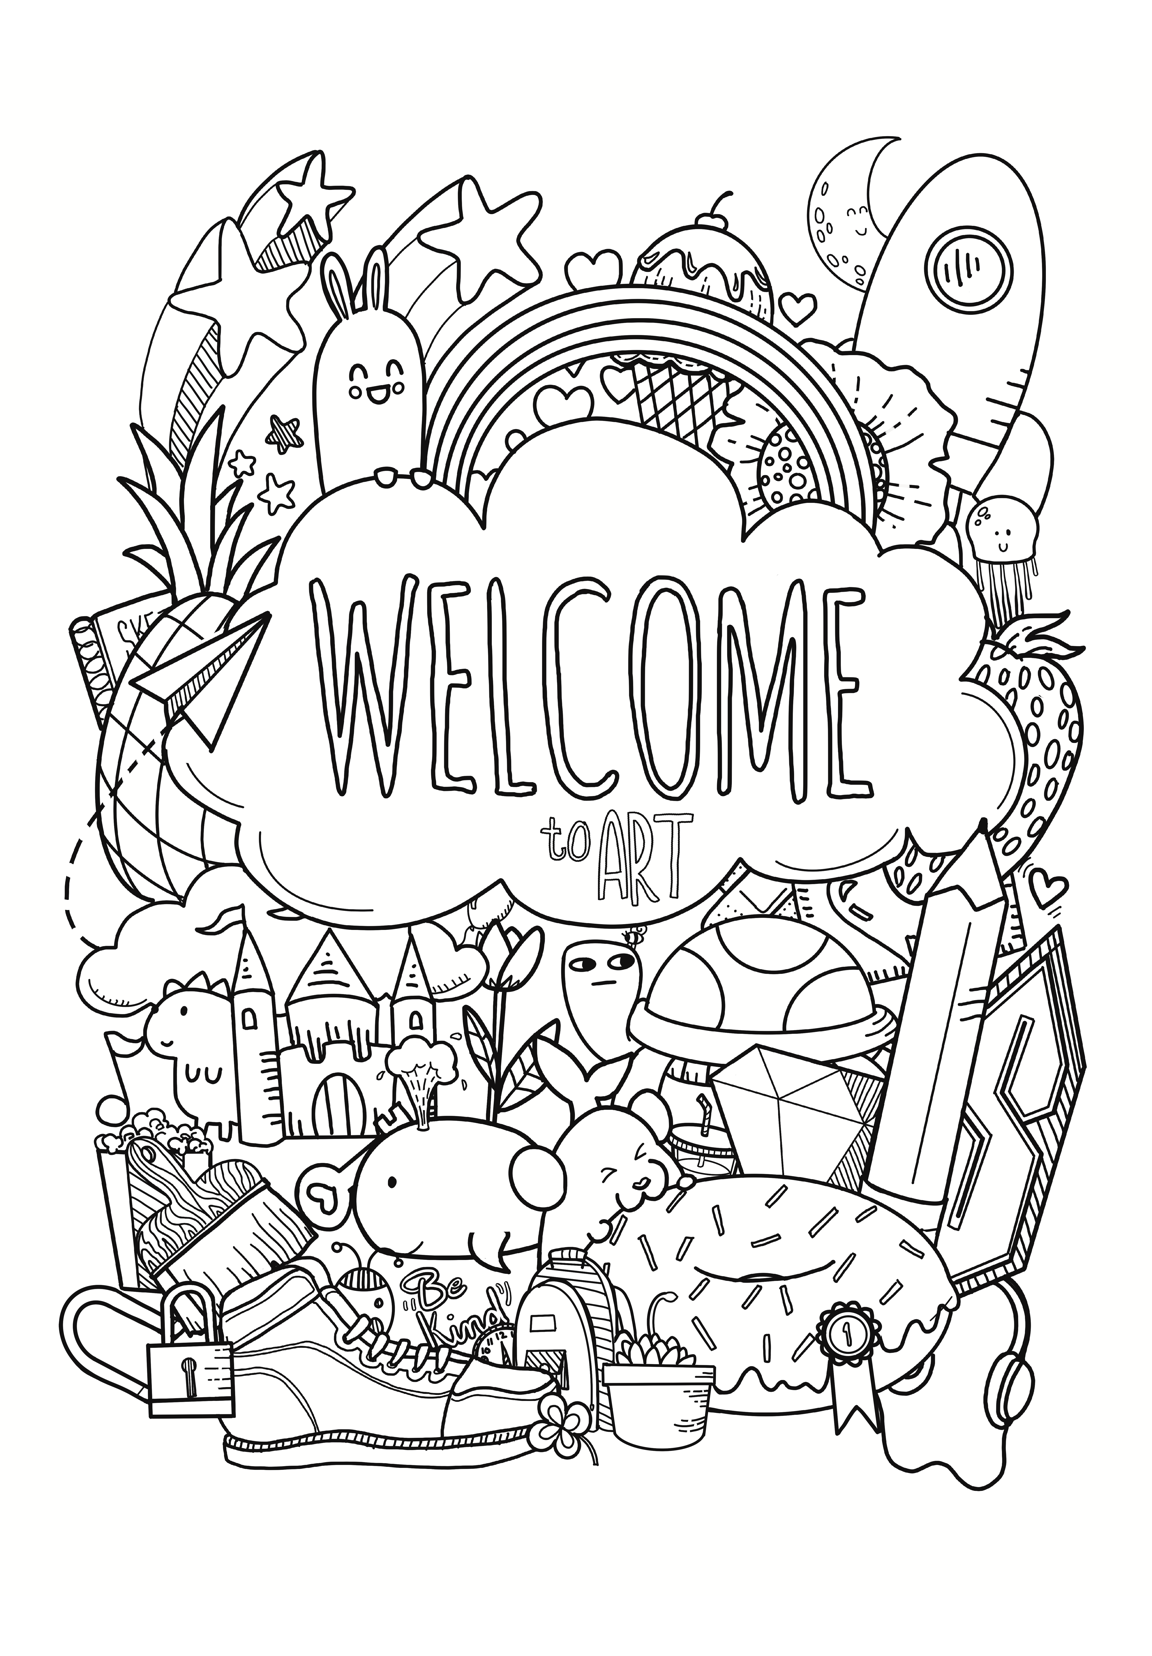
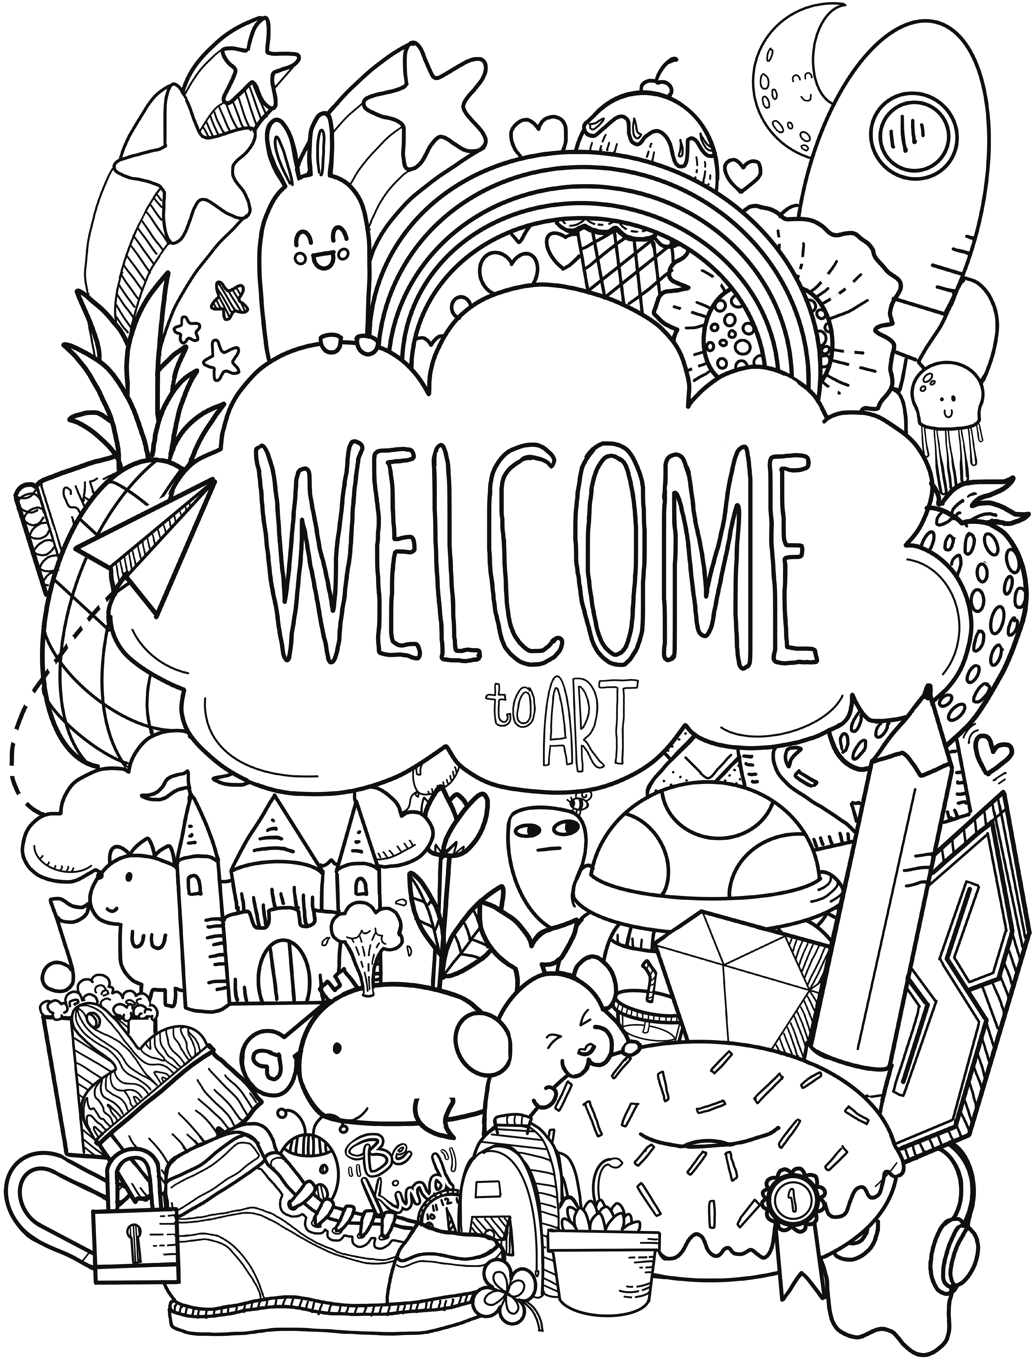
design tweaks

diff --git a/src/app/expectations/page.tsx b/src/app/expectations/page.tsx
@@ -4,14 +4,10 @@ import WelcomePic from "/public/static/images/welcome_to_art.png";
 export default function Page() {
   return (
     <main className="container">
-      <h2 className="mt-3 mb-2">Lesson One:</h2>
-      <h3>Great Expectations</h3>
-
       <div className="row">
-        <div className="col-md-6">
-          <Image src={WelcomePic} alt="Welcome to Art!" className="img-fluid" />
-        </div>
-        <div className="col-md-6">
+        <div className="col-md-7">
+        <h2 className="mt-3 mb-2">Lesson One:</h2>
+        <h3>Great Expectations</h3>
           <h4 className="mt-3">Instructions</h4>
           <p>Please watch <a href="https://app.screencastify.com/v3/watch/XlnDJ9alAvYqs1llN6t4">this video</a> in its entirety and answer the questions that follow in your sketchbook.</p>
 
@@ -28,6 +24,9 @@ export default function Page() {
             </li>
           </ul>
           <p>Let Mrs. Sam know when you complete this and she will discuss your next steps.</p>
+        </div>
+        <div className="col-md-5">
+          <Image src={WelcomePic} alt="Welcome to Art!" width={375} className="img-fluid" />
         </div>
       </div>
     </main>
